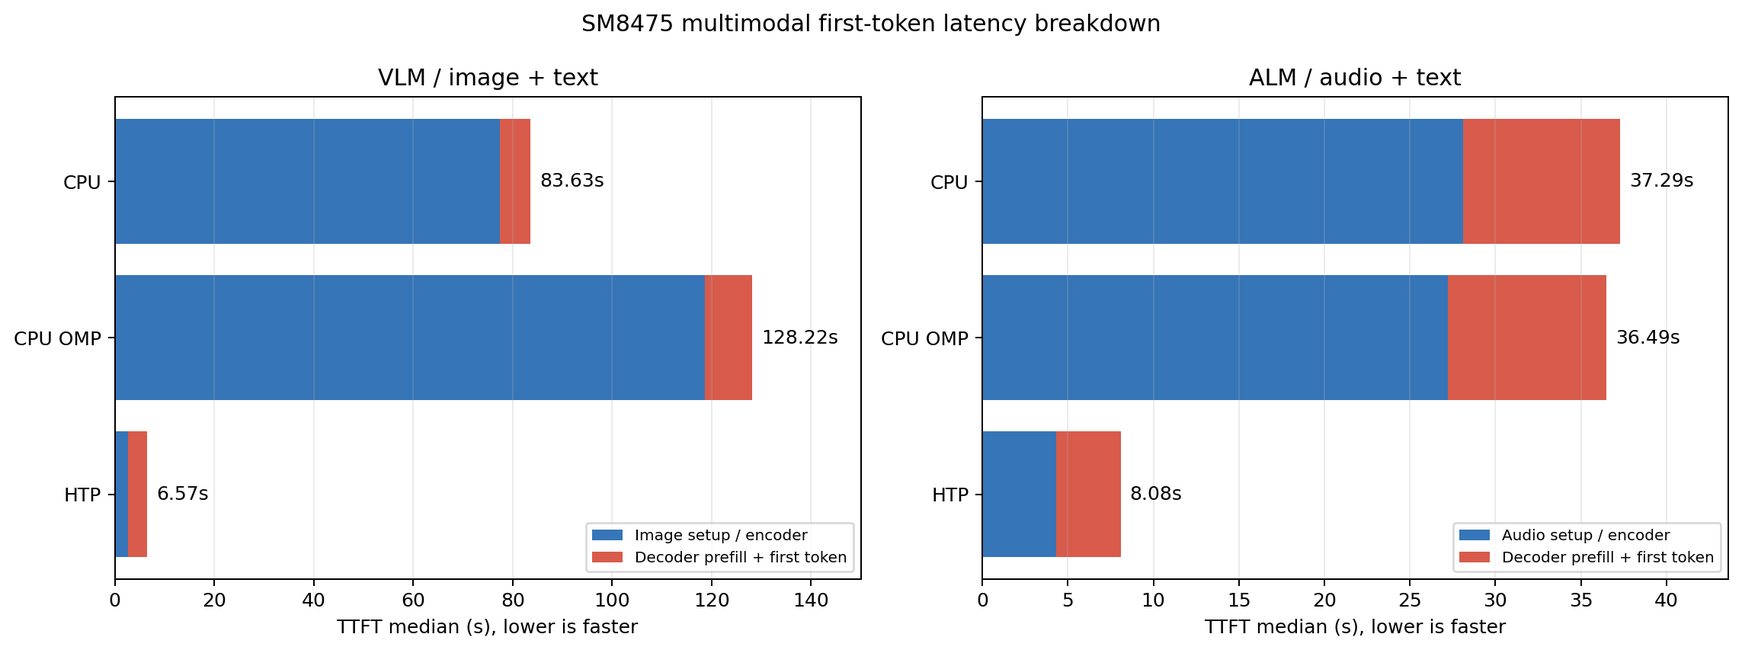
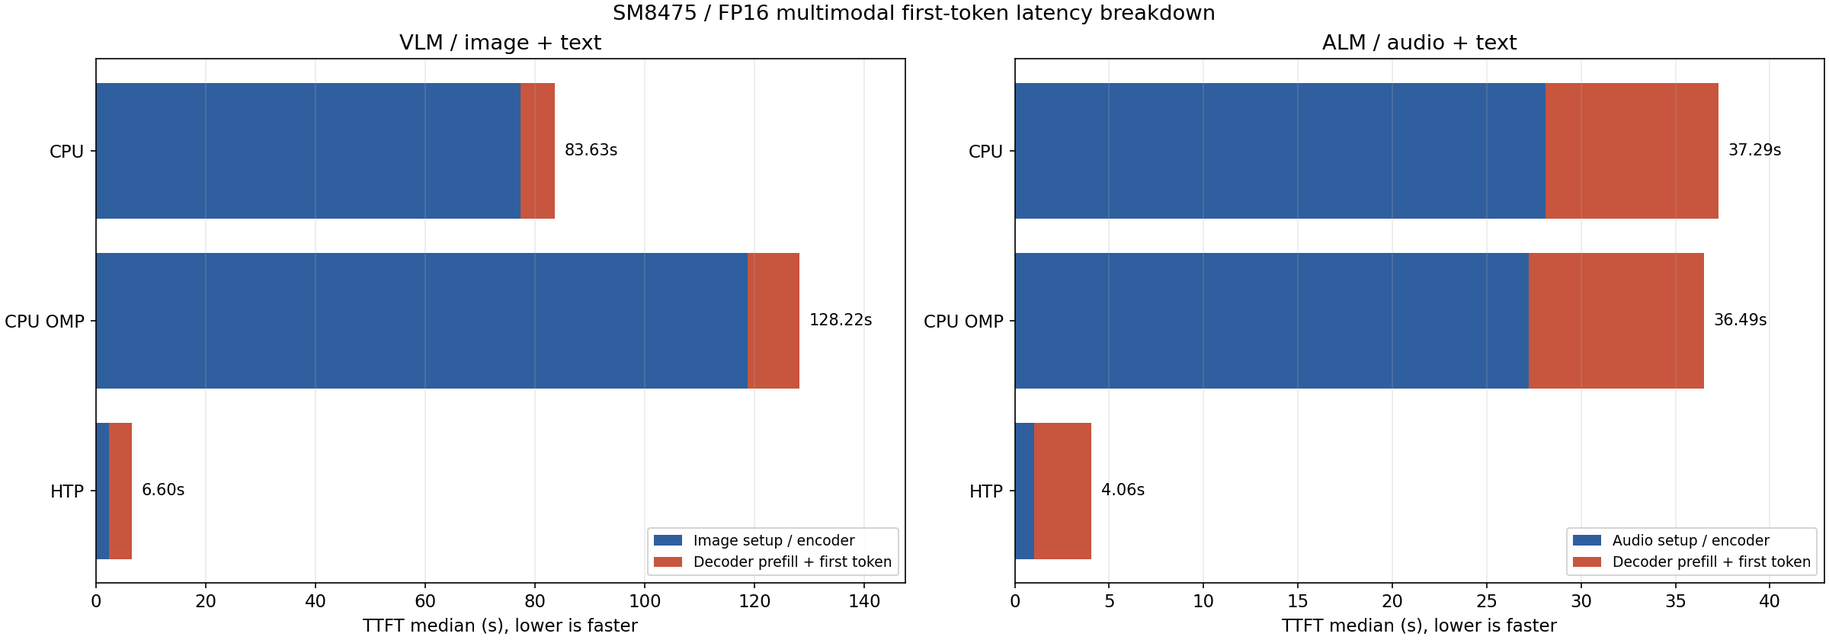
Update the QNN benchmark to the RmsNorm production package
Use the 2026-09-20 production package (RMSNorm built with the QNN RmsNorm
op) for every NPU number and chart: decode 8.062 / 6.689 TPS, the new
prefill curve, and VLM and audio TTFT, including the much lower audio
TTFT from driving the audio encoder directly.

Refresh the published model sizes and drop the consecutive-run table.

diff --git a/llm/qnn.html b/llm/qnn.html
@@ -91,7 +91,7 @@ j=d.createElement(s),dl=l!='dataLayer'?'&l='+l:'';j.async=true;j.src=
   <div class="guide-content">
 
     <h2>概要</h2>
-    <p>ailia LLM 1.5.0 以降は Qualcomm SoC の NPU（Hexagon）を使用した高速推論に対応しています。NPU 向けには、llama.cpp とは異なるアイリア社独自の実装を搭載しており、Android 端末上で Prefill を最大 3.3 倍高速化し、Prefill 中の CPU 使用率を 1/20 以下に抑えられます（Snapdragon 8+ Gen 1、2,048 トークン入力時の同端末 CPU 比）。テキストの LLM だけでなく、画像を入力する VLM（Vision Language Model）や音声入力にも対応し、NPU で処理できます。</p>
+    <p>ailia LLM 1.5.0 以降は Qualcomm SoC の NPU（Hexagon）を使用した高速推論に対応しています。NPU 向けには、llama.cpp とは異なるアイリア社独自の実装を搭載しており、Android 端末上で Prefill を最大 3.2 倍高速化し、Prefill 中の CPU 使用率を 1/20 以下に抑えられます（Snapdragon 8+ Gen 1、2,048 トークン入力時の同端末 CPU 比）。テキストの LLM だけでなく、画像を入力する VLM（Vision Language Model）や音声入力にも対応し、NPU で処理できます。</p>
     <p>QNN（Qualcomm AI Engine Direct）は Qualcomm が提供するバックエンド API です。ailia LLMでは、llama.cppのモデル形式であるGGUFを、QNNで実行可能な形式に変換することで、NPUでの推論を実現しています。</p>
     <div class="note">
       <strong>注意:</strong> QNN バックエンドは ailia LLM 1.5.0 以降で利用できます。
@@ -158,8 +158,8 @@ j=d.createElement(s),dl=l!='dataLayer'?'&l='+l:'';j.async=true;j.src=
     <table class="version-table">
       <tr><th>SoC</th><th>端末の例</th><th>ファイル</th><th>内容</th><th>サイズ</th></tr>
       <tr><td rowspan="2">sm8475<br>（Hexagon v69 / FP16）</td><td rowspan="2">Snapdragon 8+ Gen 1</td><td><a href="https://storage.googleapis.com/ailia-models/gemma/qnn/v1.5.0/gemma4-e2b-sm8475.qnn">gemma4-e2b-sm8475.qnn</a></td><td>テキストモデル（Prefill + Decode）</td><td class="num">3.60 GB</td></tr>
-      <tr><td><a href="https://storage.googleapis.com/ailia-models/gemma/qnn/v1.5.0/gemma4-e2b-sm8475-mmproj.qnn">gemma4-e2b-sm8475-mmproj.qnn</a></td><td>画像 / 音声エンコーダ（mmproj）</td><td class="num">1.11 GB</td></tr>
-      <tr><td rowspan="2">sm7635<br>（Hexagon v73 / Int16）</td><td rowspan="2">Snapdragon 7s Gen 3</td><td><a href="https://storage.googleapis.com/ailia-models/gemma/qnn/v1.5.0/gemma4-e2b-sm7635.qnn">gemma4-e2b-sm7635.qnn</a></td><td>テキストモデル（Prefill + Decode）</td><td class="num">3.57 GB</td></tr>
+      <tr><td><a href="https://storage.googleapis.com/ailia-models/gemma/qnn/v1.5.0/gemma4-e2b-sm8475-mmproj.qnn">gemma4-e2b-sm8475-mmproj.qnn</a></td><td>画像 / 音声エンコーダ（mmproj）</td><td class="num">1.10 GB</td></tr>
+      <tr><td rowspan="2">sm7635<br>（Hexagon v73 / Int16）</td><td rowspan="2">Snapdragon 7s Gen 3</td><td><a href="https://storage.googleapis.com/ailia-models/gemma/qnn/v1.5.0/gemma4-e2b-sm7635.qnn">gemma4-e2b-sm7635.qnn</a></td><td>テキストモデル（Prefill + Decode）</td><td class="num">3.56 GB</td></tr>
       <tr><td><a href="https://storage.googleapis.com/ailia-models/gemma/qnn/v1.5.0/gemma4-e2b-sm7635-mmproj.qnn">gemma4-e2b-sm7635-mmproj.qnn</a></td><td>画像 / 音声エンコーダ（mmproj）</td><td class="num">0.63 GB</td></tr>
     </table>
     </div>
@@ -235,7 +235,7 @@ llm.openMultimodalProjectorFile(mmprojQnnPath) // VLM のみ</code></pre>
     </div>
 
     <h2>ベンチマーク</h2>
-    <p>Gemma 4 E2B を 2 機種で測定した結果です。Snapdragon 8+ Gen 1（SM8475 / Hexagon v69、ASUS AI2202）は FP16 モデル、Snapdragon 7s Gen 3（SM7635 / Hexagon v73）は Int16 モデルを使用しています。いずれも QAIRT 2.47.0.260601、コンテキスト長 8192、Q4_0 入力、AR-256 / AR-1 構成で、NPU の値は 2026-09-16 の量産パッケージ（PLE フロントエンドを NPU 側で実行）での測定です。</p>
+    <p>Gemma 4 E2B を 2 機種で測定した結果です。Snapdragon 8+ Gen 1（SM8475 / Hexagon v69、ASUS AI2202）は FP16 モデル、Snapdragon 7s Gen 3（SM7635 / Hexagon v73）は Int16 モデルを使用しています。いずれも QAIRT 2.47.0.260601、コンテキスト長 8192、Q4_0 入力、AR-256 / AR-1 構成で、NPU の値は 2026-09-20 の量産パッケージ（PLE フロントエンドと RMSNorm を NPU 側で実行）を、SM7635 は 2026-09-20、SM8475 は 2026-09-21 に測定したものです。</p>
     <p>CPU は同じ端末上で、同一の Q4_0 GGUF を標準の llama.cpp 経路で実行した値です（デコーダワーカー 8、コンテキスト 8192、NDK r27c）。出荷構成は OpenMP 無効のビルドで、表の「CPU」がこれにあたります。「CPU（OpenMP）」は <code>GGML_OPENMP=ON</code> / <code>OMP_NUM_THREADS=2</code> でビルドした比較用の構成です。</p>
 
     <h3>Decode スループット</h3>
@@ -243,11 +243,11 @@ llm.openMultimodalProjectorFile(mmprojQnnPath) // VLM のみ</code></pre>
     <div class="table-wrap">
     <table class="version-table">
       <tr><th>端末</th><th>モデル</th><th>CPU</th><th>CPU（OpenMP）</th><th>NPU（QNN）</th><th>NPU の効果</th></tr>
-      <tr><td>SM8475（Hexagon v69）</td><td>FP16</td><td class="num">9.971 tokens/s</td><td class="num">8.482 tokens/s</td><td class="num">7.843 tokens/s</td><td class="num">0.79 倍</td></tr>
-      <tr><td>SM7635（Hexagon v73）</td><td>Int16</td><td class="num">6.045 tokens/s</td><td class="num">4.730 tokens/s</td><td class="num">6.883 tokens/s</td><td class="num">1.14 倍高速</td></tr>
+      <tr><td>SM8475（Hexagon v69）</td><td>FP16</td><td class="num">9.971 tokens/s</td><td class="num">8.482 tokens/s</td><td class="num">8.062 tokens/s</td><td class="num">0.81 倍</td></tr>
+      <tr><td>SM7635（Hexagon v73）</td><td>Int16</td><td class="num">6.045 tokens/s</td><td class="num">4.730 tokens/s</td><td class="num">6.689 tokens/s</td><td class="num">1.11 倍高速</td></tr>
     </table>
     </div>
-    <p>SM7635 では NPU の Decode が CPU より 1.14 倍（OpenMP ビルド比では 1.46 倍）高速です。SM8475 では CPU の方が高速で、Decode は 1 トークンずつ処理するため重みの読み出しが支配的になり、NPU の並列演算性能を活かしにくいことによります。</p>
+    <p>SM7635 では NPU の Decode が CPU より 1.11 倍（OpenMP ビルド比では 1.41 倍）高速です。SM8475 では CPU の方が高速で、Decode は 1 トークンずつ処理するため重みの読み出しが支配的になり、NPU の並列演算性能を活かしにくいことによります。</p>
 
     <figure class="bench-figure">
       <img src="benchmark/tps_sm8475.png" alt="SM8475 の Decode のトークンごとのスループット（1000 トークン生成、CPU / CPU OpenMP / NPU）" loading="lazy">
@@ -263,17 +263,17 @@ llm.openMultimodalProjectorFile(mmprojQnnPath) // VLM のみ</code></pre>
     <div class="table-wrap">
     <table class="version-table">
       <tr><th>入力トークン数</th><th>SM8475 CPU</th><th>SM8475 CPU（OpenMP）</th><th>SM8475 NPU（FP16）</th><th>SM7635 CPU</th><th>SM7635 CPU（OpenMP）</th><th>SM7635 NPU（Int16）</th></tr>
-      <tr><td class="num">64</td><td class="num">69.627</td><td class="num">49.362</td><td class="num">23.978</td><td class="num">92.689</td><td class="num">76.227</td><td class="num">14.296</td></tr>
-      <tr><td class="num">128</td><td class="num">86.688</td><td class="num">61.941</td><td class="num">147.489</td><td class="num">97.005</td><td class="num">83.779</td><td class="num">55.247</td></tr>
-      <tr><td class="num">256</td><td class="num">61.918</td><td class="num">53.572</td><td class="num">265.230</td><td class="num">80.064</td><td class="num">67.042</td><td class="num">109.083</td></tr>
-      <tr><td class="num">512</td><td class="num">84.692</td><td class="num">75.048</td><td class="num">286.695</td><td class="num">105.030</td><td class="num">100.753</td><td class="num">111.699</td></tr>
-      <tr><td class="num">1024</td><td class="num">90.603</td><td class="num">77.651</td><td class="num">293.811</td><td class="num">112.090</td><td class="num">105.844</td><td class="num">111.440</td></tr>
-      <tr><td class="num">2048</td><td class="num">86.761</td><td class="num">72.302</td><td class="num">286.029</td><td class="num">96.678</td><td class="num">93.273</td><td class="num">110.301</td></tr>
+      <tr><td class="num">64</td><td class="num">69.627</td><td class="num">49.362</td><td class="num">32.531</td><td class="num">92.689</td><td class="num">76.227</td><td class="num">18.388</td></tr>
+      <tr><td class="num">128</td><td class="num">86.688</td><td class="num">61.941</td><td class="num">139.628</td><td class="num">97.005</td><td class="num">83.779</td><td class="num">60.682</td></tr>
+      <tr><td class="num">256</td><td class="num">61.918</td><td class="num">53.572</td><td class="num">271.984</td><td class="num">80.064</td><td class="num">67.042</td><td class="num">120.991</td></tr>
+      <tr><td class="num">512</td><td class="num">84.692</td><td class="num">75.048</td><td class="num">283.391</td><td class="num">105.030</td><td class="num">100.753</td><td class="num">124.002</td></tr>
+      <tr><td class="num">1024</td><td class="num">90.603</td><td class="num">77.651</td><td class="num">282.707</td><td class="num">112.090</td><td class="num">105.844</td><td class="num">122.932</td></tr>
+      <tr><td class="num">2048</td><td class="num">86.761</td><td class="num">72.302</td><td class="num">281.506</td><td class="num">96.678</td><td class="num">93.273</td><td class="num">121.875</td></tr>
     </table>
     </div>
     <ul>
       <li>Prefill のスループットは <code>実入力トークン数 / 最初の生成呼び出し時間</code> です。2 トークンのウォームアップ後に測定しています。</li>
-      <li>2,048 トークン入力では、SM8475 で CPU より約 3.30 倍高速（OpenMP ビルド比 3.96 倍高速）、SM7635 で約 1.14 倍高速（同 1.18 倍高速）です。</li>
+      <li>2,048 トークン入力では、SM8475 で CPU より約 3.24 倍高速（OpenMP ビルド比 3.89 倍高速）、SM7635 で約 1.26 倍高速（同 1.31 倍高速）です。</li>
       <li>64 トークンのような短い入力では、固定長の AR-256 グラフでパディングが大きくなるため NPU が不利になります。</li>
     </ul>
 
@@ -297,18 +297,6 @@ llm.openMultimodalProjectorFile(mmprojQnnPath) // VLM のみ</code></pre>
     </div>
     <p>NPU では Prefill 中の CPU 使用率が 4% 程度に収まるため、アプリケーション側の処理に CPU を残せます。3 回の連続実行での PPS の変動は NPU が 4.5%（SM8475）・2.1%（SM7635）だったのに対し、CPU 構成では最大 64.0%・38.5% でした。CPU は連続稼働でパフォーマンスが大きく低下しますが、NPU のパフォーマンスは安定しています。</p>
 
-    <p>同じ 2,048 トークン Prefill を連続して 3 回実行したときのスループット（tokens/s）です。</p>
-    <div class="table-wrap">
-    <table class="version-table">
-      <tr><th>端末・経路</th><th>1 回目</th><th>2 回目</th><th>3 回目</th></tr>
-      <tr><td>SM8475 CPU</td><td class="num">129.377</td><td class="num">68.112</td><td class="num">60.324</td></tr>
-      <tr><td>SM8475 NPU（FP16）</td><td class="num">272.190</td><td class="num">265.726</td><td class="num">259.892</td></tr>
-      <tr><td>SM7635 CPU</td><td class="num">106.273</td><td class="num">38.289</td><td class="num">39.740</td></tr>
-      <tr><td>SM7635 NPU（Int16）</td><td class="num">109.307</td><td class="num">109.252</td><td class="num">106.963</td></tr>
-    </table>
-    </div>
-    <p>SM7635 では 1 回目こそ CPU と NPU がほぼ同等ですが、2 回目以降の CPU は発熱による性能低下（サーマルスロットリング）で約 3 分の 1 まで落ち込みます。NPU は 3 回とも同じスループットを維持するため、連続して推論を行う実際の利用では NPU が約 2.8 倍高速になります。SM8475 でも CPU は 2 回目以降に約半分まで低下し、NPU との差は 2.1 倍から 4.3 倍に広がります。</p>
-
     <h3>VLM（画像入力）の応答時間</h3>
     <p>同一の 768x768 画像 10 枚、各 100 トークン出力での中央値です。TTFT は画像エンコーダを含むプロンプト設定と最初の生成呼び出しの合計で、モデルのオープンは含みません。</p>
     <div class="table-wrap">
@@ -316,13 +304,13 @@ llm.openMultimodalProjectorFile(mmprojQnnPath) // VLM のみ</code></pre>
       <tr><th>端末・経路</th><th>TTFT（中央値）</th><th>Decode（中央値）</th></tr>
       <tr><td>SM8475 CPU</td><td class="num">83.63 秒</td><td class="num">12.081 tokens/s</td></tr>
       <tr><td>SM8475 CPU（OpenMP）</td><td class="num">128.22 秒</td><td class="num">7.491 tokens/s</td></tr>
-      <tr><td>SM8475 NPU（FP16）</td><td class="num">6.57 秒</td><td class="num">7.692 tokens/s</td></tr>
+      <tr><td>SM8475 NPU（FP16）</td><td class="num">6.60 秒</td><td class="num">7.033 tokens/s</td></tr>
       <tr><td>SM7635 CPU</td><td class="num">95.01 秒</td><td class="num">5.891 tokens/s</td></tr>
       <tr><td>SM7635 CPU（OpenMP）</td><td class="num">97.45 秒</td><td class="num">3.569 tokens/s</td></tr>
-      <tr><td>SM7635 NPU（Int16）</td><td class="num">9.83 秒</td><td class="num">6.982 tokens/s</td></tr>
+      <tr><td>SM7635 NPU（Int16）</td><td class="num">8.78 秒</td><td class="num">6.245 tokens/s</td></tr>
     </table>
     </div>
-    <p>画像入力の TTFT は、SM8475 で約 12.7 倍、SM7635 で約 9.7 倍高速です。CPU と NPU はいずれも同じ 768x768 の画素と 256 個の画像埋め込みを処理しています。</p>
+    <p>画像入力の TTFT は、SM8475 で約 12.7 倍、SM7635 で約 10.8 倍高速です。CPU と NPU はいずれも同じ 768x768 の画素と 256 個の画像埋め込みを処理しています。</p>
     <figure class="bench-figure">
       <img src="benchmark/media_ttft_sm8475.png" alt="SM8475 の VLM / 音声入力の TTFT 内訳（CPU / CPU OpenMP / NPU）" loading="lazy">
       <figcaption>SM8475（FP16）の VLM / 音声入力の TTFT 内訳（エンコーダとデコーダ Prefill）</figcaption>
@@ -339,13 +327,13 @@ llm.openMultimodalProjectorFile(mmprojQnnPath) // VLM のみ</code></pre>
       <tr><th>端末・経路</th><th>TTFT（中央値）</th><th>Decode（中央値）</th><th>出力トークン数</th></tr>
       <tr><td>SM8475 CPU</td><td class="num">37.29 秒</td><td class="num">10.416 tokens/s</td><td class="num">21〜89</td></tr>
       <tr><td>SM8475 CPU（OpenMP）</td><td class="num">36.49 秒</td><td class="num">10.539 tokens/s</td><td class="num">21〜89</td></tr>
-      <tr><td>SM8475 NPU（FP16）</td><td class="num">8.08 秒</td><td class="num">7.193 tokens/s</td><td class="num">21〜60</td></tr>
+      <tr><td>SM8475 NPU（FP16）</td><td class="num">4.06 秒</td><td class="num">6.495 tokens/s</td><td class="num">21〜90</td></tr>
       <tr><td>SM7635 CPU</td><td class="num">47.22 秒</td><td class="num">5.167 tokens/s</td><td class="num">21〜89</td></tr>
       <tr><td>SM7635 CPU（OpenMP）</td><td class="num">35.37 秒</td><td class="num">3.847 tokens/s</td><td class="num">21〜89</td></tr>
-      <tr><td>SM7635 NPU（Int16）</td><td class="num">9.29 秒</td><td class="num">6.539 tokens/s</td><td class="num">21〜90</td></tr>
+      <tr><td>SM7635 NPU（Int16）</td><td class="num">7.06 秒</td><td class="num">6.419 tokens/s</td><td class="num">21〜58</td></tr>
     </table>
     </div>
-    <p>音声入力の TTFT は、SM8475 で約 4.6 倍、SM7635 で約 5.1 倍高速です。</p>
+    <p>音声入力の TTFT は、SM8475 で約 9.2 倍、SM7635 で約 6.7 倍高速です。</p>
 
     <h3>メモリ使用量</h3>
     <p>SH-M33（SM7635 / Hexagon v73）で、LLM / VLM / ALM の各構成を 8 トークン生成で実行したときのメモリ使用量です（単位 MiB、コンテキスト長 8192）。CPU は Q4_0 GGUF と BF16 の mmproj、NPU は Int16 の QNN Model を使用しています。モデルは mmap で読み込むため、実際に確保した作業メモリである匿名メモリ（<code>RssAnon</code>）と、ページキャッシュとして再利用できるファイルマッピング（<code>RssFile</code>）を分けて記載します。ピークはプロセスの最大常駐サイズ（<code>VmHWM</code>）です。</p>

diff --git a/en/llm/qnn.html b/en/llm/qnn.html
@@ -91,7 +91,7 @@ j=d.createElement(s),dl=l!='dataLayer'?'&l='+l:'';j.async=true;j.src=
   <div class="guide-content">
 
     <h2>Overview</h2>
-    <p>ailia LLM 1.5.0 and later support fast inference on the NPU (Hexagon) of Qualcomm SoCs. For the NPU, ailia LLM uses a proprietary implementation developed by ailia Inc. that is separate from llama.cpp, and it accelerates prefill by up to 3.3x on Android devices while keeping CPU use during prefill below one twentieth of the CPU path (Snapdragon 8+ Gen 1, 2,048-token input, compared with the CPU on the same device). In addition to text LLMs and VLMs (Vision Language Models) that take images as input, ailia LLM also supports audio input, with processing on the NPU.</p>
+    <p>ailia LLM 1.5.0 and later support fast inference on the NPU (Hexagon) of Qualcomm SoCs. For the NPU, ailia LLM uses a proprietary implementation developed by ailia Inc. that is separate from llama.cpp, and it accelerates prefill by up to 3.2x on Android devices while keeping CPU use during prefill below one twentieth of the CPU path (Snapdragon 8+ Gen 1, 2,048-token input, compared with the CPU on the same device). In addition to text LLMs and VLMs (Vision Language Models) that take images as input, ailia LLM also supports audio input, with processing on the NPU.</p>
     <p>QNN (Qualcomm AI Engine Direct) is a backend API provided by Qualcomm. ailia LLM achieves NPU inference by converting GGUF, the model format of llama.cpp, into a format that can be executed by QNN.</p>
     <div class="note">
       <strong>Note:</strong> The QNN backend is available in ailia LLM 1.5.0 and later.
@@ -159,8 +159,8 @@ j=d.createElement(s),dl=l!='dataLayer'?'&l='+l:'';j.async=true;j.src=
     <table class="version-table">
       <tr><th>SoC</th><th>Example device</th><th>File</th><th>Contents</th><th>Size</th></tr>
       <tr><td rowspan="2">sm8475<br>(Hexagon v69 / FP16)</td><td rowspan="2">Snapdragon 8+ Gen 1</td><td><a href="https://storage.googleapis.com/ailia-models/gemma/qnn/v1.5.0/gemma4-e2b-sm8475.qnn">gemma4-e2b-sm8475.qnn</a></td><td>Text model (prefill + decode)</td><td class="num">3.60 GB</td></tr>
-      <tr><td><a href="https://storage.googleapis.com/ailia-models/gemma/qnn/v1.5.0/gemma4-e2b-sm8475-mmproj.qnn">gemma4-e2b-sm8475-mmproj.qnn</a></td><td>Image / audio encoder (mmproj)</td><td class="num">1.11 GB</td></tr>
-      <tr><td rowspan="2">sm7635<br>(Hexagon v73 / Int16)</td><td rowspan="2">Snapdragon 7s Gen 3</td><td><a href="https://storage.googleapis.com/ailia-models/gemma/qnn/v1.5.0/gemma4-e2b-sm7635.qnn">gemma4-e2b-sm7635.qnn</a></td><td>Text model (prefill + decode)</td><td class="num">3.57 GB</td></tr>
+      <tr><td><a href="https://storage.googleapis.com/ailia-models/gemma/qnn/v1.5.0/gemma4-e2b-sm8475-mmproj.qnn">gemma4-e2b-sm8475-mmproj.qnn</a></td><td>Image / audio encoder (mmproj)</td><td class="num">1.10 GB</td></tr>
+      <tr><td rowspan="2">sm7635<br>(Hexagon v73 / Int16)</td><td rowspan="2">Snapdragon 7s Gen 3</td><td><a href="https://storage.googleapis.com/ailia-models/gemma/qnn/v1.5.0/gemma4-e2b-sm7635.qnn">gemma4-e2b-sm7635.qnn</a></td><td>Text model (prefill + decode)</td><td class="num">3.56 GB</td></tr>
       <tr><td><a href="https://storage.googleapis.com/ailia-models/gemma/qnn/v1.5.0/gemma4-e2b-sm7635-mmproj.qnn">gemma4-e2b-sm7635-mmproj.qnn</a></td><td>Image / audio encoder (mmproj)</td><td class="num">0.63 GB</td></tr>
     </table>
     </div>
@@ -236,7 +236,7 @@ llm.openMultimodalProjectorFile(mmprojQnnPath) // VLM only</code></pre>
     </div>
 
     <h2>Benchmark</h2>
-    <p>The following results were measured with Gemma 4 E2B on two devices. Snapdragon 8+ Gen 1 (SM8475 / Hexagon v69, ASUS AI2202) uses the FP16 model, and Snapdragon 7s Gen 3 (SM7635 / Hexagon v73) uses the Int16 model. Both were measured with QAIRT 2.47.0.260601, a context length of 8192, Q4_0 input and the AR-256 / AR-1 configuration. The NPU numbers were measured with the 2026-09-16 production package, which runs the PLE frontend on the NPU.</p>
+    <p>The following results were measured with Gemma 4 E2B on two devices. Snapdragon 8+ Gen 1 (SM8475 / Hexagon v69, ASUS AI2202) uses the FP16 model, and Snapdragon 7s Gen 3 (SM7635 / Hexagon v73) uses the Int16 model. Both were measured with QAIRT 2.47.0.260601, a context length of 8192, Q4_0 input and the AR-256 / AR-1 configuration. The NPU numbers were measured with the 2026-09-20 production package, which runs the PLE frontend and RMSNorm on the NPU, on 2026-09-20 for SM7635 and 2026-09-21 for SM8475.</p>
     <p>The CPU numbers run the same Q4_0 GGUF through the standard llama.cpp path on the same device (8 decoder workers, context 8192, NDK r27c). The shipping configuration is the build with OpenMP disabled, which is the "CPU" column. "CPU (OpenMP)" is a comparison build made with <code>GGML_OPENMP=ON</code> and <code>OMP_NUM_THREADS=2</code>.</p>
 
     <h3>Decode throughput</h3>
@@ -244,11 +244,11 @@ llm.openMultimodalProjectorFile(mmprojQnnPath) // VLM only</code></pre>
     <div class="table-wrap">
     <table class="version-table">
       <tr><th>Device</th><th>Model</th><th>CPU</th><th>CPU (OpenMP)</th><th>NPU (QNN)</th><th>Effect of the NPU</th></tr>
-      <tr><td>SM8475 (Hexagon v69)</td><td>FP16</td><td class="num">9.971 tokens/s</td><td class="num">8.482 tokens/s</td><td class="num">7.843 tokens/s</td><td class="num">0.79x</td></tr>
-      <tr><td>SM7635 (Hexagon v73)</td><td>Int16</td><td class="num">6.045 tokens/s</td><td class="num">4.730 tokens/s</td><td class="num">6.883 tokens/s</td><td class="num">1.14x faster</td></tr>
+      <tr><td>SM8475 (Hexagon v69)</td><td>FP16</td><td class="num">9.971 tokens/s</td><td class="num">8.482 tokens/s</td><td class="num">8.062 tokens/s</td><td class="num">0.81x</td></tr>
+      <tr><td>SM7635 (Hexagon v73)</td><td>Int16</td><td class="num">6.045 tokens/s</td><td class="num">4.730 tokens/s</td><td class="num">6.689 tokens/s</td><td class="num">1.11x faster</td></tr>
     </table>
     </div>
-    <p>On SM7635, NPU decode is 1.14x faster than the CPU (1.46x faster than the OpenMP build). On SM8475 the CPU is faster: decode processes one token at a time, so it is dominated by weight loading and does not benefit much from the parallel compute of the NPU.</p>
+    <p>On SM7635, NPU decode is 1.11x faster than the CPU (1.41x faster than the OpenMP build). On SM8475 the CPU is faster: decode processes one token at a time, so it is dominated by weight loading and does not benefit much from the parallel compute of the NPU.</p>
 
     <figure class="bench-figure">
       <img src="../../llm/benchmark/tps_sm8475.png" alt="SM8475 per-token decode throughput over 1000 generated tokens (CPU / CPU OpenMP / NPU)" loading="lazy">
@@ -264,17 +264,17 @@ llm.openMultimodalProjectorFile(mmprojQnnPath) // VLM only</code></pre>
     <div class="table-wrap">
     <table class="version-table">
       <tr><th>Input tokens</th><th>SM8475 CPU</th><th>SM8475 CPU (OpenMP)</th><th>SM8475 NPU (FP16)</th><th>SM7635 CPU</th><th>SM7635 CPU (OpenMP)</th><th>SM7635 NPU (Int16)</th></tr>
-      <tr><td class="num">64</td><td class="num">69.627</td><td class="num">49.362</td><td class="num">23.978</td><td class="num">92.689</td><td class="num">76.227</td><td class="num">14.296</td></tr>
-      <tr><td class="num">128</td><td class="num">86.688</td><td class="num">61.941</td><td class="num">147.489</td><td class="num">97.005</td><td class="num">83.779</td><td class="num">55.247</td></tr>
-      <tr><td class="num">256</td><td class="num">61.918</td><td class="num">53.572</td><td class="num">265.230</td><td class="num">80.064</td><td class="num">67.042</td><td class="num">109.083</td></tr>
-      <tr><td class="num">512</td><td class="num">84.692</td><td class="num">75.048</td><td class="num">286.695</td><td class="num">105.030</td><td class="num">100.753</td><td class="num">111.699</td></tr>
-      <tr><td class="num">1024</td><td class="num">90.603</td><td class="num">77.651</td><td class="num">293.811</td><td class="num">112.090</td><td class="num">105.844</td><td class="num">111.440</td></tr>
-      <tr><td class="num">2048</td><td class="num">86.761</td><td class="num">72.302</td><td class="num">286.029</td><td class="num">96.678</td><td class="num">93.273</td><td class="num">110.301</td></tr>
+      <tr><td class="num">64</td><td class="num">69.627</td><td class="num">49.362</td><td class="num">32.531</td><td class="num">92.689</td><td class="num">76.227</td><td class="num">18.388</td></tr>
+      <tr><td class="num">128</td><td class="num">86.688</td><td class="num">61.941</td><td class="num">139.628</td><td class="num">97.005</td><td class="num">83.779</td><td class="num">60.682</td></tr>
+      <tr><td class="num">256</td><td class="num">61.918</td><td class="num">53.572</td><td class="num">271.984</td><td class="num">80.064</td><td class="num">67.042</td><td class="num">120.991</td></tr>
+      <tr><td class="num">512</td><td class="num">84.692</td><td class="num">75.048</td><td class="num">283.391</td><td class="num">105.030</td><td class="num">100.753</td><td class="num">124.002</td></tr>
+      <tr><td class="num">1024</td><td class="num">90.603</td><td class="num">77.651</td><td class="num">282.707</td><td class="num">112.090</td><td class="num">105.844</td><td class="num">122.932</td></tr>
+      <tr><td class="num">2048</td><td class="num">86.761</td><td class="num">72.302</td><td class="num">281.506</td><td class="num">96.678</td><td class="num">93.273</td><td class="num">121.875</td></tr>
     </table>
     </div>
     <ul>
       <li>Prefill throughput is <code>actual input tokens / time of the first generate call</code>, measured after a two-token warmup.</li>
-      <li>With a 2,048-token input, the NPU is about 3.30x faster than the CPU on SM8475 (3.96x faster than the OpenMP build) and about 1.14x faster on SM7635 (1.18x faster than the OpenMP build).</li>
+      <li>With a 2,048-token input, the NPU is about 3.24x faster than the CPU on SM8475 (3.89x faster than the OpenMP build) and about 1.26x faster on SM7635 (1.31x faster than the OpenMP build).</li>
       <li>For short inputs such as 64 tokens the NPU is at a disadvantage, because the fixed-length AR-256 graph is mostly padding.</li>
     </ul>
 
@@ -298,18 +298,6 @@ llm.openMultimodalProjectorFile(mmprojQnnPath) // VLM only</code></pre>
     </div>
     <p>On the NPU, CPU use during prefill stays around 4%, leaving the CPU available for the rest of the application. Across three consecutive runs, PPS varied by 4.5% (SM8475) and 2.1% (SM7635) on the NPU, against up to 64.0% and 38.5% for the CPU configurations. CPU performance drops considerably under continuous operation, while NPU performance stays stable.</p>
 
-    <p>Throughput (tokens/s) of the same 2,048-token prefill run three times in a row.</p>
-    <div class="table-wrap">
-    <table class="version-table">
-      <tr><th>Device / path</th><th>Run 1</th><th>Run 2</th><th>Run 3</th></tr>
-      <tr><td>SM8475 CPU</td><td class="num">129.377</td><td class="num">68.112</td><td class="num">60.324</td></tr>
-      <tr><td>SM8475 NPU (FP16)</td><td class="num">272.190</td><td class="num">265.726</td><td class="num">259.892</td></tr>
-      <tr><td>SM7635 CPU</td><td class="num">106.273</td><td class="num">38.289</td><td class="num">39.740</td></tr>
-      <tr><td>SM7635 NPU (Int16)</td><td class="num">109.307</td><td class="num">109.252</td><td class="num">106.963</td></tr>
-    </table>
-    </div>
-    <p>On SM7635 the CPU and the NPU are nearly identical on the first run, but from the second run on the CPU falls to about a third of that because of thermal throttling. The NPU holds the same throughput across all three runs, so in real use with continuous inference the NPU is about 2.8x faster. On SM8475 the CPU also drops to about half from the second run on, widening the gap with the NPU from 2.1x to 4.3x.</p>
-
     <h3>VLM (image input) latency</h3>
     <p>Medians over the same 10 images at 768x768 with 100 output tokens each. TTFT is the prompt setup including the image encoder plus the first generate call, excluding model opening.</p>
     <div class="table-wrap">
@@ -317,13 +305,13 @@ llm.openMultimodalProjectorFile(mmprojQnnPath) // VLM only</code></pre>
       <tr><th>Device / path</th><th>TTFT (median)</th><th>Decode (median)</th></tr>
       <tr><td>SM8475 CPU</td><td class="num">83.63 s</td><td class="num">12.081 tokens/s</td></tr>
       <tr><td>SM8475 CPU (OpenMP)</td><td class="num">128.22 s</td><td class="num">7.491 tokens/s</td></tr>
-      <tr><td>SM8475 NPU (FP16)</td><td class="num">6.57 s</td><td class="num">7.692 tokens/s</td></tr>
+      <tr><td>SM8475 NPU (FP16)</td><td class="num">6.60 s</td><td class="num">7.033 tokens/s</td></tr>
       <tr><td>SM7635 CPU</td><td class="num">95.01 s</td><td class="num">5.891 tokens/s</td></tr>
       <tr><td>SM7635 CPU (OpenMP)</td><td class="num">97.45 s</td><td class="num">3.569 tokens/s</td></tr>
-      <tr><td>SM7635 NPU (Int16)</td><td class="num">9.83 s</td><td class="num">6.982 tokens/s</td></tr>
+      <tr><td>SM7635 NPU (Int16)</td><td class="num">8.78 s</td><td class="num">6.245 tokens/s</td></tr>
     </table>
     </div>
-    <p>Image TTFT is about 12.7x faster on SM8475 and about 9.7x faster on SM7635. Both the CPU and the NPU consume the same 768x768 pixels and the same 256 image embeddings.</p>
+    <p>Image TTFT is about 12.7x faster on SM8475 and about 10.8x faster on SM7635. Both the CPU and the NPU consume the same 768x768 pixels and the same 256 image embeddings.</p>
     <figure class="bench-figure">
       <img src="../../llm/benchmark/media_ttft_sm8475.png" alt="SM8475 VLM and audio TTFT breakdown (CPU / CPU OpenMP / NPU)" loading="lazy">
       <figcaption>SM8475 (FP16) VLM and audio TTFT breakdown (encoder and decoder prefill)</figcaption>
@@ -340,13 +328,13 @@ llm.openMultimodalProjectorFile(mmprojQnnPath) // VLM only</code></pre>
       <tr><th>Device / path</th><th>TTFT (median)</th><th>Decode (median)</th><th>Output tokens</th></tr>
       <tr><td>SM8475 CPU</td><td class="num">37.29 s</td><td class="num">10.416 tokens/s</td><td class="num">21-89</td></tr>
       <tr><td>SM8475 CPU (OpenMP)</td><td class="num">36.49 s</td><td class="num">10.539 tokens/s</td><td class="num">21-89</td></tr>
-      <tr><td>SM8475 NPU (FP16)</td><td class="num">8.08 s</td><td class="num">7.193 tokens/s</td><td class="num">21-60</td></tr>
+      <tr><td>SM8475 NPU (FP16)</td><td class="num">4.06 s</td><td class="num">6.495 tokens/s</td><td class="num">21-90</td></tr>
       <tr><td>SM7635 CPU</td><td class="num">47.22 s</td><td class="num">5.167 tokens/s</td><td class="num">21-89</td></tr>
       <tr><td>SM7635 CPU (OpenMP)</td><td class="num">35.37 s</td><td class="num">3.847 tokens/s</td><td class="num">21-89</td></tr>
-      <tr><td>SM7635 NPU (Int16)</td><td class="num">9.29 s</td><td class="num">6.539 tokens/s</td><td class="num">21-90</td></tr>
+      <tr><td>SM7635 NPU (Int16)</td><td class="num">7.06 s</td><td class="num">6.419 tokens/s</td><td class="num">21-58</td></tr>
     </table>
     </div>
-    <p>Audio TTFT is about 4.6x faster on SM8475 and about 5.1x faster on SM7635.</p>
+    <p>Audio TTFT is about 9.2x faster on SM8475 and about 6.7x faster on SM7635.</p>
 
     <h3>Memory usage</h3>
     <p>Memory usage on SH-M33 (SM7635 / Hexagon v73) while running the LLM, VLM and ALM configurations with 8 generated tokens (in MiB, context length 8192). The CPU path uses the Q4_0 GGUF with the BF16 mmproj, and the NPU path uses the Int16 QNN Model. Models are loaded with mmap, so anonymous memory (<code>RssAnon</code>, the working memory actually allocated) and file-backed mappings (<code>RssFile</code>, reusable page cache) are listed separately. Peak is the peak resident size of the process (<code>VmHWM</code>).</p>
